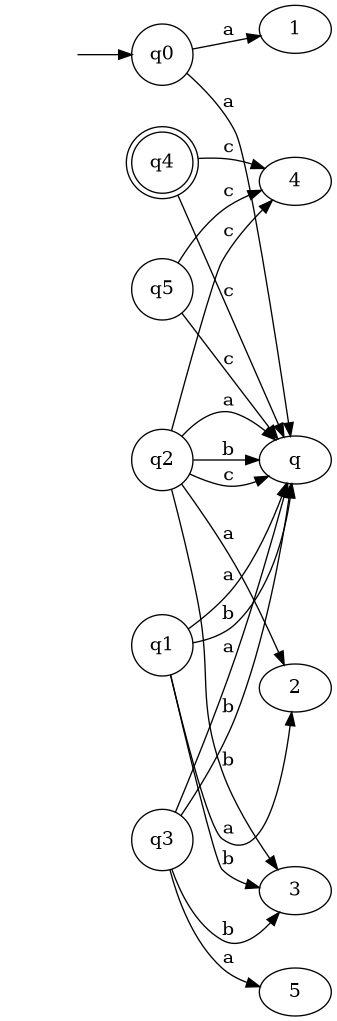
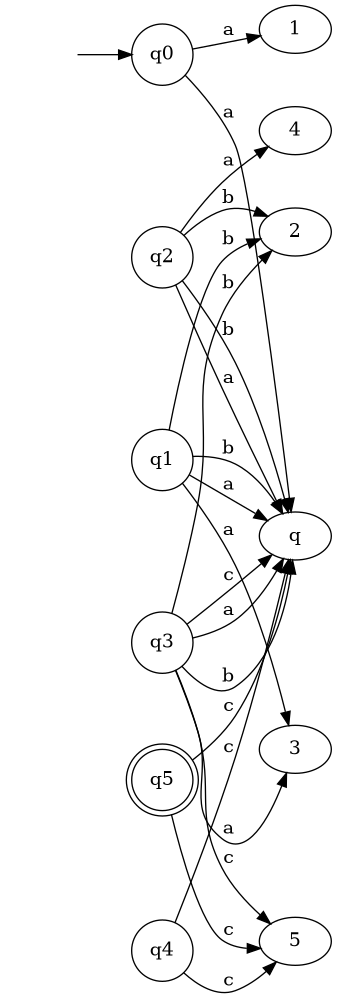
lab4

diff --git a/lab4/lab4.py b/lab4/lab4.py
@@ -1,0 +1,148 @@
+import random
+import re
+from collections import OrderedDict
+
+class RegexGenerator:
+    def __init__(self, max_repeat=5):
+        self.max_repeat = max_repeat
+        self.processing_steps = OrderedDict()
+    
+    def _log_step(self, stage, before, after, explanation):
+        """Records each processing step with visual diff"""
+        self.processing_steps[stage] = {
+            'before': before,
+            'after': after,
+            'explanation': explanation
+        }
+    
+    def generate(self, pattern):
+        self.processing_steps.clear()
+        original = pattern
+        self._log_step("0_Start", pattern, None, "Original pattern")
+        
+        # Processing pipeline
+        pattern = self._process_exponents(pattern)
+        pattern = self._process_alternations(pattern)
+        pattern = self._process_quantifiers(pattern)
+        pattern = self._clean_special_chars(pattern)
+        
+        return {
+            'original': original,
+            'result': pattern,
+            'steps': self.processing_steps
+        }
+    
+    def _process_exponents(self, pattern):
+        """Step 1: Handle ^+ and ^n notation"""
+        new_pattern = re.sub(
+            r'(\w)\^\+', 
+            lambda m: f"{m.group(1)}{{1,{self.max_repeat}}}", 
+            pattern
+        )
+        new_pattern = re.sub(
+            r'(\w)\^(\d+)', 
+            lambda m: f"{m.group(1)}{{{m.group(2)}}}", 
+            new_pattern
+        )
+        self._log_step("1_Exponents", pattern, new_pattern, 
+                      "Converted ^+ to {1,N} and ^n to {n}")
+        return new_pattern
+    
+    def _process_alternations(self, pattern):
+        """Step 2: Handle (a|b) choices"""
+        new_pattern = pattern
+        while '|' in new_pattern:
+            prev = new_pattern
+            new_pattern = re.sub(
+                r'\(([^)]+)\)', 
+                lambda m: random.choice(m.group(1).split('|')), 
+                new_pattern
+            )
+            if new_pattern != prev:
+                self._log_step("2_Alternations", prev, new_pattern, 
+                             f"Resolved alternation: {prev} → {new_pattern}")
+        return new_pattern
+    
+    def _process_quantifiers(self, pattern):
+        """Step 3: Handle all quantifiers"""
+        new_pattern = pattern
+        
+        # Process {n,m} ranges
+        new_pattern = re.sub(
+            r'\{(\d+),(\d+)\}', 
+            lambda m: m.group(1) * random.randint(int(m.group(1)), int(m.group(2))), 
+            new_pattern
+        )
+        
+        # Process fixed {n}
+        new_pattern = re.sub(
+            r'\{(\d+)\}', 
+            lambda m: m.group(1) * int(m.group(2)), 
+            new_pattern
+        )
+        
+        # Process *, +, ?
+        quant_map = [
+            (r'(\w)\*', lambda m: m.group(1) * random.randint(0, self.max_repeat)),
+            (r'(\w)\+', lambda m: m.group(1) * random.randint(1, self.max_repeat)),
+            (r'(\w)\?', lambda m: m.group(1) if random.random() > 0.5 else '')
+        ]
+        
+        for q_pattern, q_func in quant_map:
+            prev = new_pattern
+            new_pattern = re.sub(q_pattern, q_func, new_pattern)
+            if new_pattern != prev:
+                self._log_step("3_Quantifiers", prev, new_pattern, 
+                             f"Applied {q_pattern} quantifier")
+        
+        return new_pattern
+    
+    def _clean_special_chars(self, pattern):
+        """Step 4: Final cleanup"""
+        new_pattern = pattern.replace('·', '').replace('^', '')
+        if new_pattern != pattern:
+            self._log_step("4_Cleanup", pattern, new_pattern, 
+                          "Removed special characters")
+        return new_pattern
+    
+    def print_processing_steps(self, result):
+        """Beautiful step-by-step visualization"""
+        print(f"\n{' REGEX PROCESSING STEPS ':=^60}")
+        print(f"Original: {result['original']}\n")
+        
+        for stage, data in result['steps'].items():
+            step_num = stage.split('_')[0]
+            print(f"{step_num}. {data['explanation']}")
+            if data['after'] is not None:
+                print(f"   Before: {data['before']}")
+                print(f"   After:  {data['after']}")
+            print()
+        
+        print(f"Final Result: {result['result']}")
+        print('='*60 + "\n")
+
+def generate_variant1_with_bonus():
+    generator = RegexGenerator()
+    
+    # Pattern 1: (a|b)(c|d)E^+G?
+    print("\n" + "="*20 + " PATTERN 1 " + "="*20)
+    p1 = "(a|b)(c|d)E^+G?"
+    result1 = generator.generate(p1)
+    print(f"Generated: {result1['result']}")
+    generator.print_processing_steps(result1)
+    
+    # Pattern 2: P(Q|R|S)T(uv|w|x)*Z+
+    print("\n" + "="*20 + " PATTERN 2 " + "="*20)
+    p2 = "P(Q|R|S)T(uv|w|x)*Z+"
+    result2 = generator.generate(p2)
+    print(f"Generated: {result2['result']}")
+    generator.print_processing_steps(result2)
+    
+    # Pattern 3: 1(0|1)*2(3|4)^536
+    print("\n" + "="*20 + " PATTERN 3 " + "="*20)
+    p3 = "1(0|1)*2(3|4)^536"
+    result3 = generator.generate(p3)
+    print(f"Generated: {result3['result']}")
+    generator.print_processing_steps(result3)
+
+generate_variant1_with_bonus()

diff --git a/lab3/main.py b/lab3/main.py
@@ -27,7 +27,6 @@ TOKEN_TYPES = [
 
 TOKEN_REGEX = '|'.join(f'(?P<{name}>{pattern})' for name, pattern in TOKEN_TYPES)
 
-
 class Lexer:
     def __init__(self, text):
         self.text = text
@@ -39,12 +38,12 @@ class Lexer:
             token_type = match.lastgroup
             value = match.group()
 
-            if token_type == "WHITESPACE":  # Ignore spaces and newlines
+            if token_type == "WHITESPACE": 
                 continue
 
             tokens.append((token_type, value))
         
-        tokens.append(("EOF", None))  # Add end of file token
+        tokens.append(("EOF", None)) 
         return tokens
 
     def next_token(self):
@@ -55,20 +54,101 @@ class Lexer:
 if __name__ == "__main__":
     code = """
     chunk1 {
-        TimeSignature=4/4
-        Tempo=120
-        Volume=80
-        Piano(R, do, 2/4)
-        Piano(L, sol, 1/4)
-        Piano(L, fa, 1/4)
-        sync {
-            Piano(R, re, 1/4)
-            Piano(R, mi, 1/4)
-        }
-        for(note = do; note < sol; note+=1){
-            Piano(R, note, 1/4)
-        }
+    TimeSignature=4/4
+    Tempo=120
+    Volume=80
+    Piano(R, mi, 1/8)
+    Pause(1/8)
+    Piano(R, mi, 1/8)
+    Pause(1/8)
+    Piano(R, mi, 1/8)
+    Pause(1/8)
+    Piano(R, do, 1/8)
+    Piano(R, mi, 1/8)
+    Pause(1/8)
+    Piano(R, sol, 1/4)
+    sync {
+        Guitar(L, do, 1/4)
+        Guitar(L, sol, 1/4)
     }
+}
+
+chunk2 {
+    TimeSignature=4/4
+    Tempo=120
+    Volume=80
+    Piano(R, sol, 1/8)
+    Pause(1/8)
+    Piano(R, do, 1/8)
+    Pause(1/8)
+    Piano(R, mi, 1/8)
+    Pause(1/8)
+    Piano(R, la, 1/8)
+    Piano(R, si, 1/8)
+    Piano(R, la, 1/8)
+    sync {
+        Guitar(L, sol, 1/4)
+        Guitar(L, mi, 1/4)
+    }
+}
+
+chunk3 {
+    TimeSignature=4/4
+    Tempo=120
+    Volume=80
+    Piano(R, sol, 1/8)
+    Pause(1/8)
+    Piano(R, fa, 1/8)
+    Pause(1/8)
+    Piano(R, mi, 1/8)
+    Pause(1/8)
+    Piano(R, do, 1/8)
+    Piano(R, re, 1/8)
+    Piano(R, si, 1/8)
+    sync {
+        Guitar(L, do, 1/4)
+        Guitar(L, sol, 1/4)
+    }
+}
+
+chunk4 {
+    TimeSignature=4/4
+    Tempo=120
+    Volume=80
+    Piano(R, do, 1/8)
+    Pause(1/8)
+    Piano(R, sol, 1/8)
+    Pause(1/8)
+    Piano(R, do, 1/8)
+    Pause(1/8)
+    Piano(R, mi, 1/8)
+    Piano(R, sol, 1/8)
+    Piano(R, do, 1/8)
+    sync {
+        Guitar(L, do, 1/4)
+        Guitar(L, sol, 1/4)
+    }
+}
+
+chunk5 {
+    TimeSignature=4/4
+    Tempo=120
+    Volume=80
+    Piano(R, mi, 1/8)
+    Pause(1/8)
+    Piano(R, do, 1/8)
+    Pause(1/8)
+    Piano(R, sol, 1/8)
+    Pause(1/8)
+    Piano(R, mi, 1/8)
+    Piano(R, do, 1/8)
+    Piano(R, sol, 1/8)
+    sync {
+        Guitar(L, do, 1/4)
+        Guitar(L, sol, 1/4)
+    }
+}
+
     """
     lexer = Lexer(code)
     for token in lexer.tokens:

diff --git a/lab2/lab2.py b/lab2/lab2.py
@@ -136,11 +136,9 @@ class FiniteAutomaton:
         dfa_transitions = {}
         queue = [dfa_start]
 
-        # Map frozenset states to readable names (q0, q1, etc.)
         state_names = {dfa_start: 'q0'}
         state_counter = 1
 
-        # Check if the start state is also an accept state
         if any(state in self.accept_states for state in dfa_start):
             dfa_accept.add(state_names[dfa_start])
 
@@ -165,13 +163,11 @@ class FiniteAutomaton:
                     queue.append(next_frozen)
                     dfa_states.add(next_frozen)
 
-                    # Check if this new state is an accept state
                     if any(state in self.accept_states for state in next_frozen):
                         dfa_accept.add(state_names[next_frozen])
 
                 dfa_transitions[current_name][symbol] = state_names[next_frozen]
 
-        # Ensure q0 is a final state if it is in the NFA's accept states
         if self.start_state in self.accept_states:
             dfa_accept.add(state_names[dfa_start])
 
@@ -220,7 +216,6 @@ F: {{{', '.join(map(str, self.accept_states))}}}"""
 
 
 if __name__ == "__main__":
-    # Define the grammar
     VN = {'S', 'A', 'B', 'C'}
     VT = {'a', 'b', 'c', 'd'}
     P = {
@@ -233,7 +228,6 @@ if __name__ == "__main__":
 
     grammar = Grammar(VN, VT, P, S)
 
-    # Define the NFA for Variant 26
     variant_states = {'q0', 'q1', 'q2', 'q3'}
     variant_alphabet = {'a', 'b', 'c'}
     variant_transitions = {
@@ -253,31 +247,24 @@ if __name__ == "__main__":
         variant_accept
     )
 
-    # Generate a string from the grammar
     generated_string = grammar.generate_string()
     print(f"Generated string: {generated_string}")
 
-    # Classify the grammar
     print(f"Grammar classification: {grammar.classify_grammar()}")
 
-    # Convert the grammar to a finite automaton
     fa = grammar.to_finite_automaton()
     print("\nFinite Automaton:")
     print(fa)
 
-    # Check if the automaton is deterministic
     print("\nIs deterministic:", fa.is_deterministic())
 
-    # Convert NFA to DFA
     dfa = variant_nfa.convert_to_dfa()
     print("\nDFA:")
     print(dfa)
 
-    # Print the regular grammar
     print("\nRegular Grammar:")
     print(grammar)
 
-    # Visualize the NFA and DFA
     fa.visualize("FA")
     variant_nfa.visualize("NFA")
     dfa.visualize("DFA")
